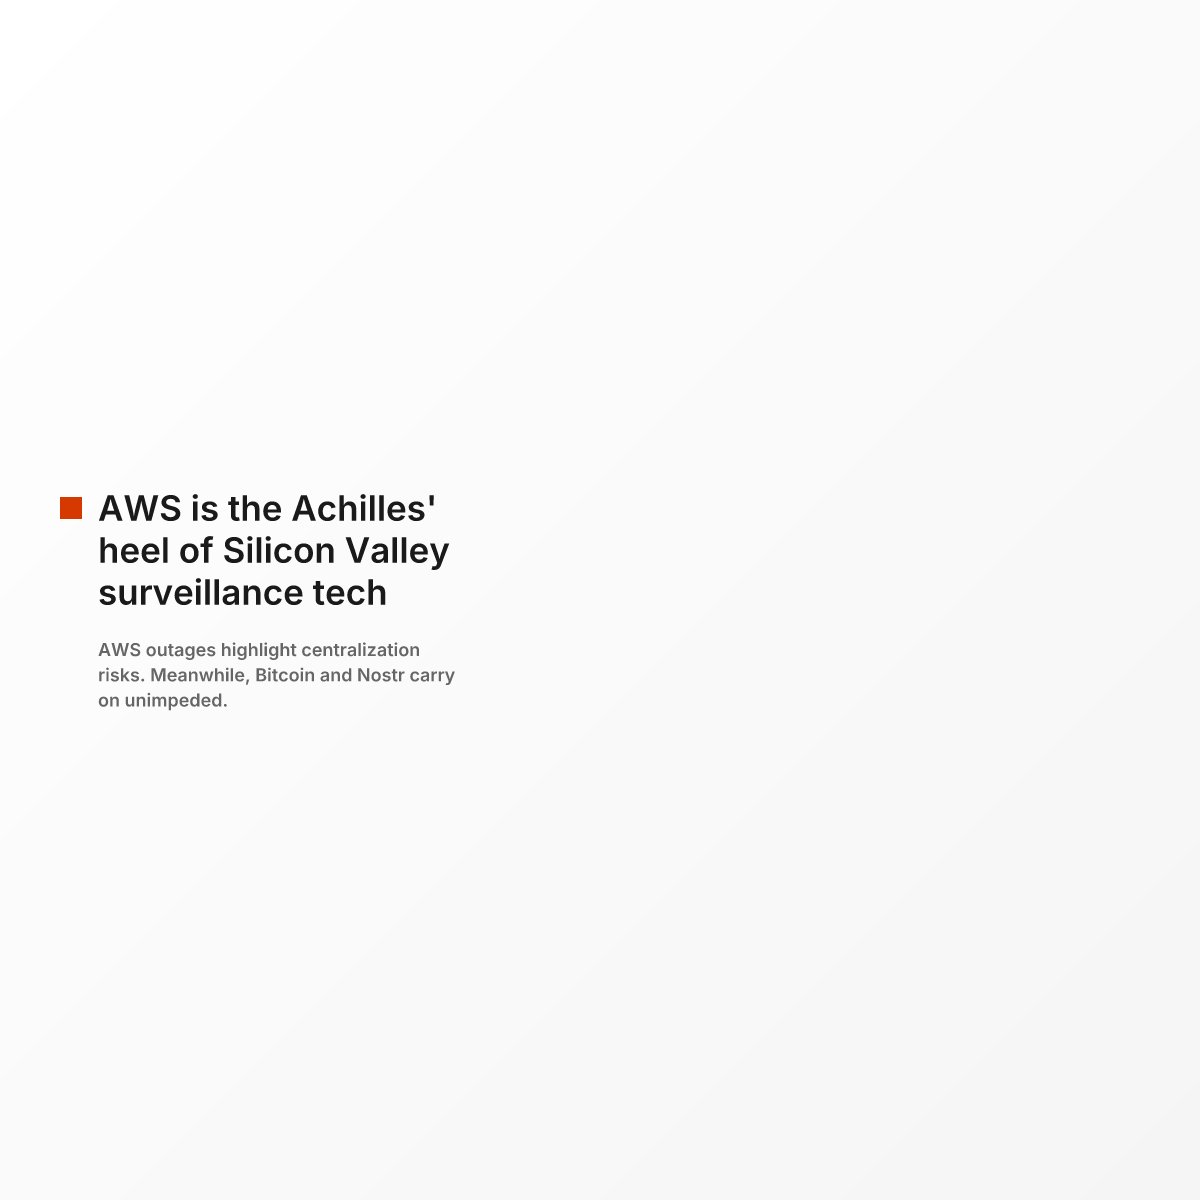
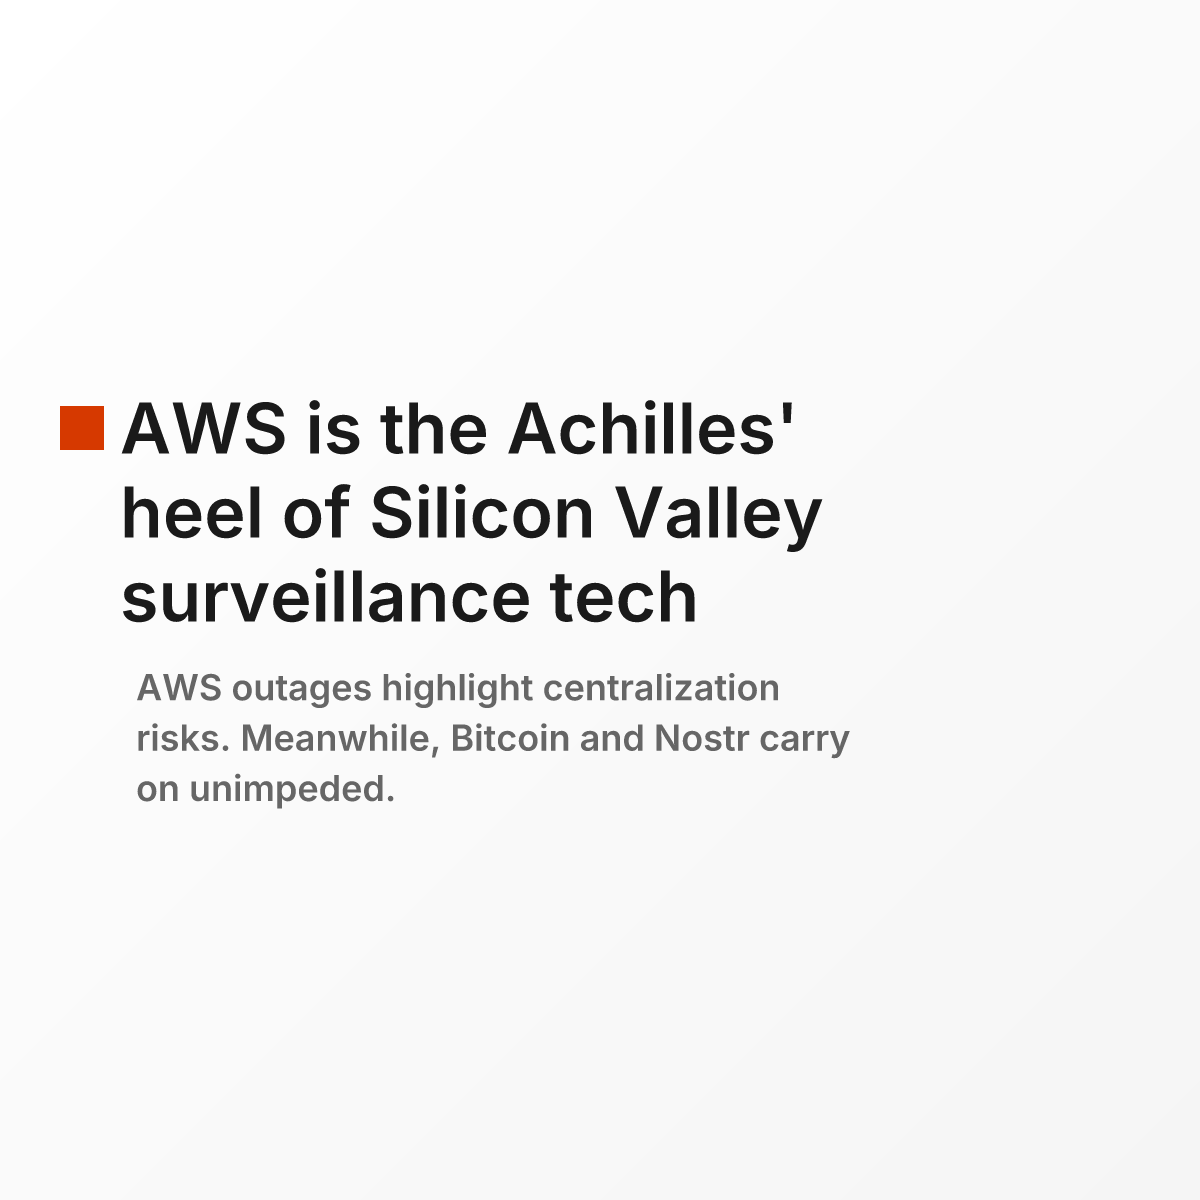
fix: correct OG image font sizes (2x scale)
Fixed critical scaling error where mockup dimensions (50% scale) were
used instead of actual image dimensions. Updated all typography and
spacing values to proper 2x scale:

Landscape (1200×630):
- Orange square: 20px → 40px
- Title: 30px → 60px
- Description: 17px → 34px
- Left padding: 32px → 64px

Square (1200×1200):
- Orange square: 22px → 44px
- Title: 35px → 70px
- Description: 18px → 36px
- Left padding: 38px → 76px

Regenerated all 8 OG images (4 notes × 2 formats).

🤖 Generated with [Claude Code](https://claude.com/claude-code)

Changed region(s): [[0.0308, 0.3392, 0.7092, 0.6783]]

diff --git a/scripts/generate-og-images.js b/scripts/generate-og-images.js
@@ -102,28 +102,28 @@ async function main() {
             ">
               <div style="
                 display: flex;
-                width: 20px;
-                height: 20px;
+                width: 40px;
+                height: 40px;
                 background: ${COLORS.accent};
-                margin-top: 8px;
+                margin-top: 16px;
                 flex-shrink: 0;
               "></div>
               <h1 style="
-                font-size: 30px;
+                font-size: 60px;
                 font-weight: 600;
                 color: ${COLORS.textPrimary};
                 line-height: 1.2;
                 margin: 0;
-                max-width: 500px;
+                max-width: 1000px;
               ">${title}</h1>
             </div>
             <p style="
-              font-size: 17px;
+              font-size: 34px;
               color: ${COLORS.textSecondary};
               line-height: 1.4;
               margin: 0;
-              max-width: 500px;
-              padding-left: 32px;
+              max-width: 1000px;
+              padding-left: 64px;
             ">${description}</p>
           </div>
         </div>
@@ -158,28 +158,28 @@ async function main() {
             ">
               <div style="
                 display: flex;
-                width: 22px;
-                height: 22px;
+                width: 44px;
+                height: 44px;
                 background: ${COLORS.accent};
-                margin-top: 10px;
+                margin-top: 20px;
                 flex-shrink: 0;
               "></div>
               <h1 style="
-                font-size: 35px;
+                font-size: 70px;
                 font-weight: 600;
                 color: ${COLORS.textPrimary};
                 line-height: 1.2;
                 margin: 0;
-                max-width: 400px;
+                max-width: 800px;
               ">${title}</h1>
             </div>
             <p style="
-              font-size: 18px;
+              font-size: 36px;
               color: ${COLORS.textSecondary};
               line-height: 1.4;
               margin: 0;
-              max-width: 400px;
-              padding-left: 38px;
+              max-width: 800px;
+              padding-left: 76px;
             ">${description}</p>
           </div>
         </div>
